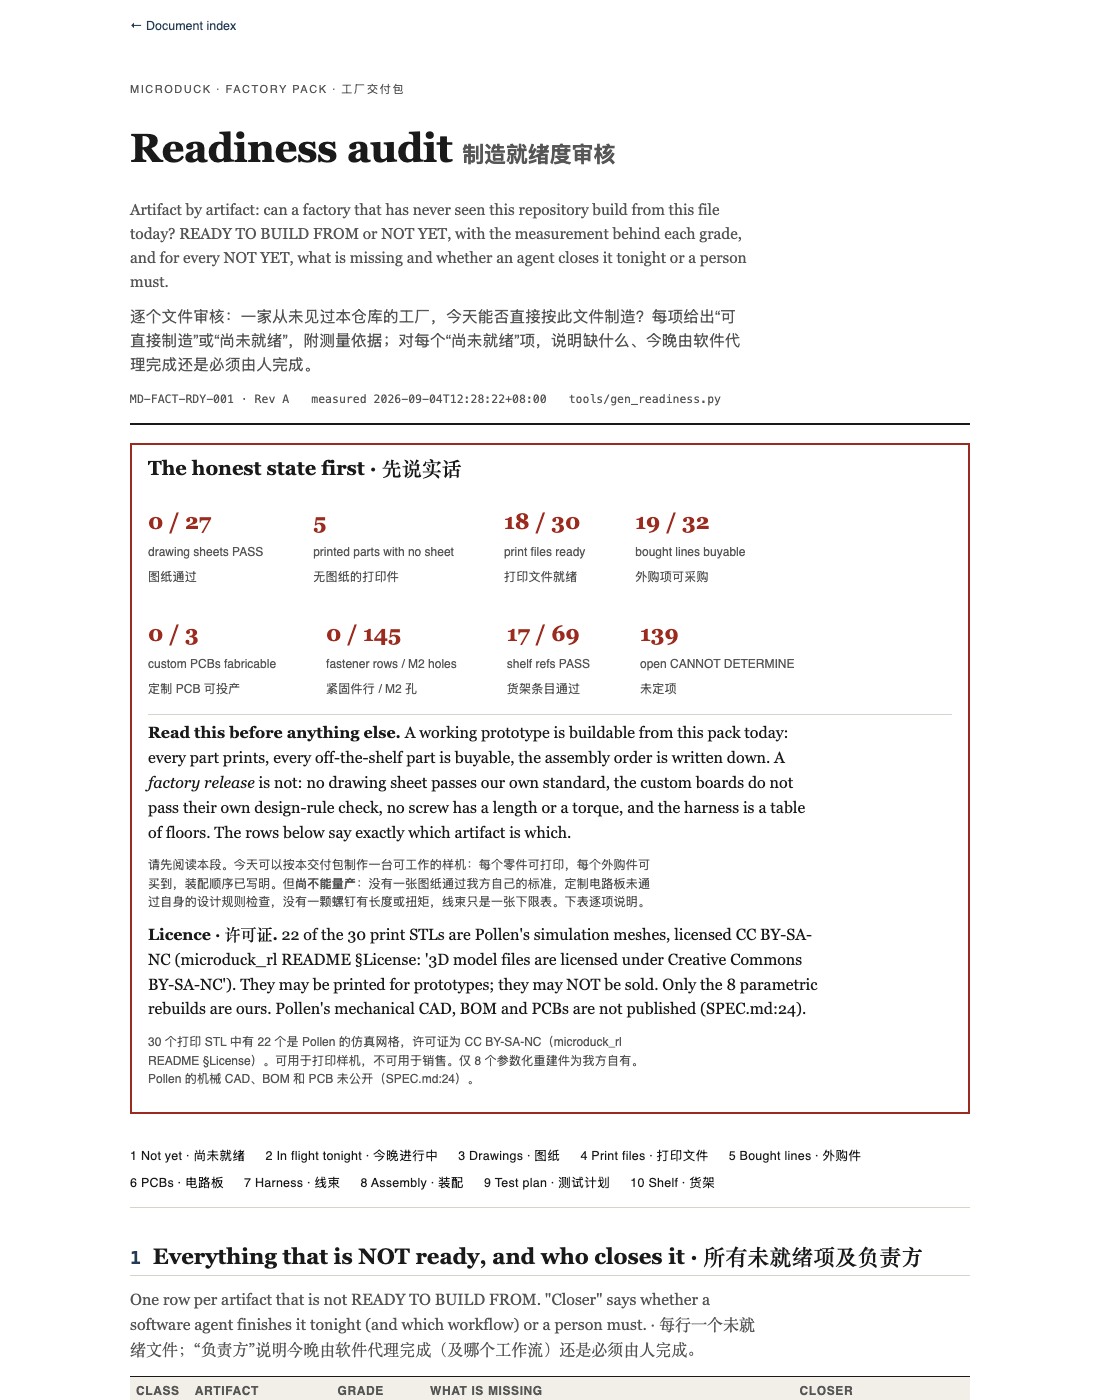
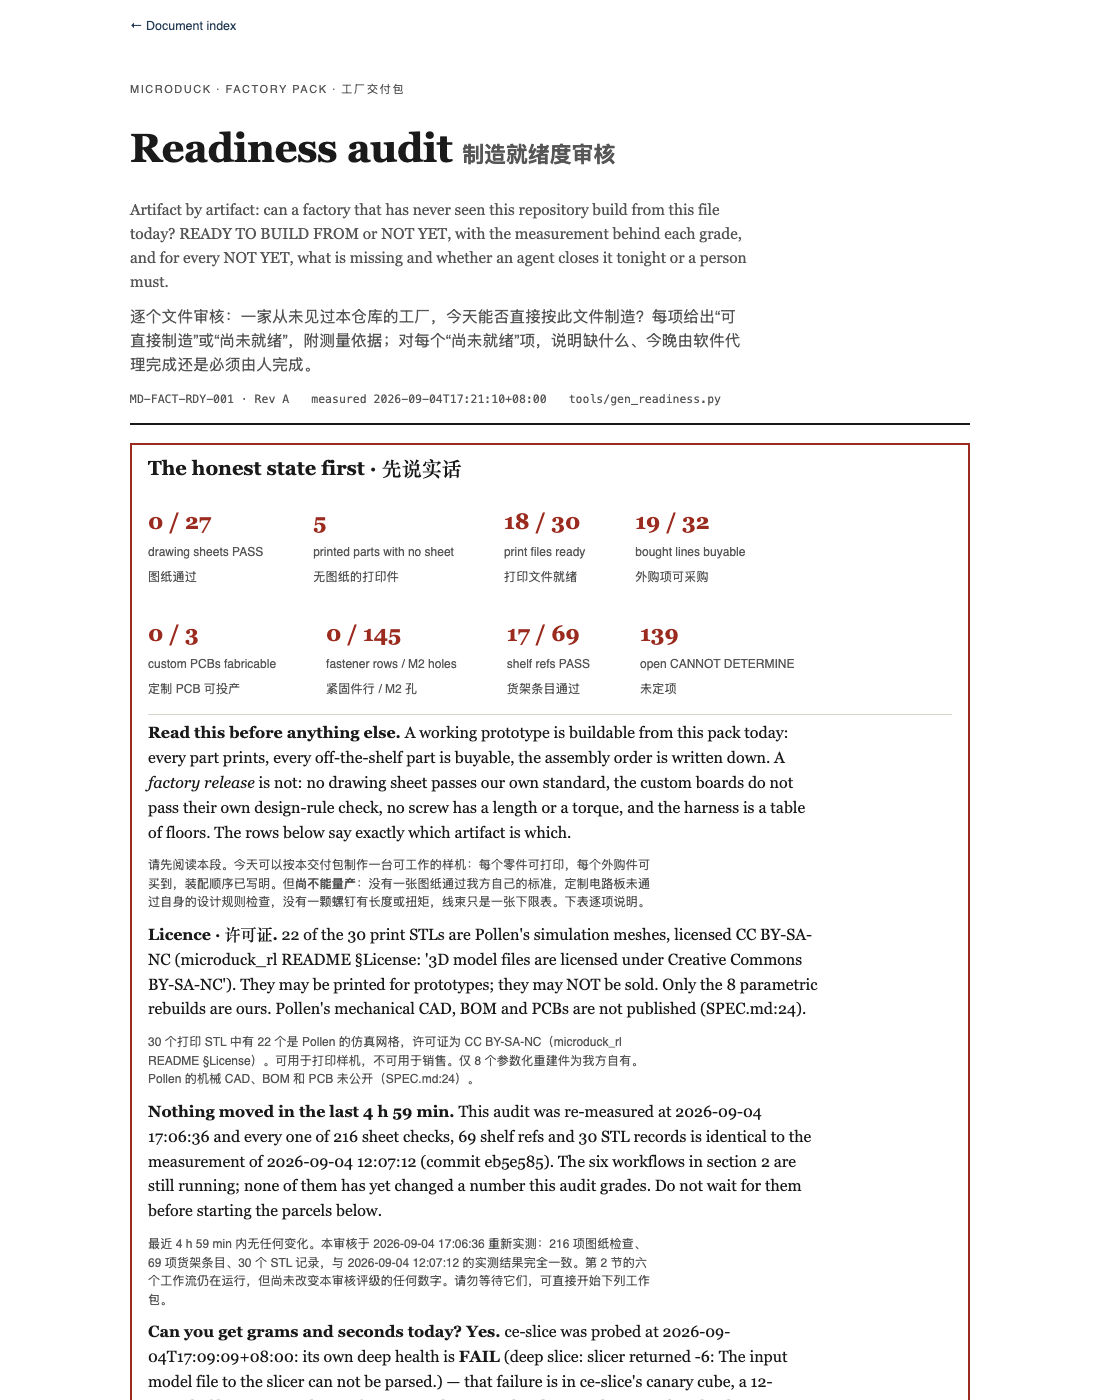
readiness audit: section 4 now says what READY means for a print file, because the grade and the licence are two different questions and the table was answering only one. READY TO BUILD FROM = an STL exists, it is watertight, an orientation is stated and ce-slice returned real grams and seconds. It 

Changed region(s): [[0.1236, 0.7679, 0.8345, 1.0]]

diff --git a/out/factory/readiness.html b/out/factory/readiness.html
@@ -12,7 +12,7 @@
 <header class="hero"><p class="eyebrow">Microduck · factory pack · 工厂交付包</p>
 <h1>Readiness audit <span class="zh" style="font-size:22px;display:inline">制造就绪度审核</span></h1>
 <p class="sub">Artifact by artifact: can a factory that has never seen this repository build from this file today? READY TO BUILD FROM or NOT YET, with the measurement behind each grade, and for every NOT YET, what is missing and whether an agent closes it tonight or a person must.</p><p class="sub zh">逐个文件审核：一家从未见过本仓库的工厂，今天能否直接按此文件制造？每项给出“可直接制造”或“尚未就绪”，附测量依据；对每个“尚未就绪”项，说明缺什么、今晚由软件代理完成还是必须由人完成。</p>
-<div class="rev"><span>MD-FACT-RDY-001 · Rev A</span><span>measured 2026-09-04T17:15:21+08:00</span><span>tools/gen_readiness.py</span></div></header>
+<div class="rev"><span>MD-FACT-RDY-001 · Rev A</span><span>measured 2026-09-04T17:21:10+08:00</span><span>tools/gen_readiness.py</span></div></header>
 <div class="front"><h2>The honest state first · 先说实话</h2>
 <div class="statbar">
 <div class="stat"><b class="no">0 / 27</b><span>drawing sheets PASS<br>图纸通过</span></div>
@@ -155,7 +155,7 @@
 <section id="inflight"><h2><span class="n">2</span>Work an agent is doing tonight — do not hand these to the factory · 今晚代理正在做的工作（勿交给工厂）</h2>
 <p class="lede">The right-hand column is measured, not reported: each owned path is stat-ed at generation time — how many files exist and when the newest one was written. A path that does not exist yet is named as such.</p>
 <table><colgroup><col style="width:11%"><col style="width:36%"><col style="width:27%"><col style="width:26%"></colgroup><tr><th>Workflow<br><span class="zh">工作流</span></th><th>What it closes<br><span class="zh">完成内容</span></th><th>Paths it owns<br><span class="zh">所属路径</span></th><th>Measured state of those paths<br><span class="zh">所属路径的实测状态</span></th></tr>
-<tr><td class="m">WF-SHEETS</td><td>Drawing-sheet rebuild to the A2/A3/A4 standard; every sheet regenerated<span class="zh">按 A2/A3/A4 标准重建全部图纸</span></td><td class="m">ce-cad/cecad/autosheet.py, ce-cad/cecad/sheets.py, out/drawings/</td><td><small>ce-cad/cecad/autosheet.py: 09-03 17:47; ce-cad/cecad/sheets.py: 09-03 17:47; out/drawings: 328 files, newest 09-04 17:14 (edgeclass/microduck-foot-left-top-after.svg)</small></td></tr>
+<tr><td class="m">WF-SHEETS</td><td>Drawing-sheet rebuild to the A2/A3/A4 standard; every sheet regenerated<span class="zh">按 A2/A3/A4 标准重建全部图纸</span></td><td class="m">ce-cad/cecad/autosheet.py, ce-cad/cecad/sheets.py, out/drawings/</td><td><small>ce-cad/cecad/autosheet.py: 09-03 17:47; ce-cad/cecad/sheets.py: 09-03 17:47; out/drawings: 328 files, newest 09-04 17:21 (edgeclass/microduck-foot-left-top-after.svg)</small></td></tr>
 <tr><td class="m">WF-FASTENERS</td><td>Fastener census and assembly (every screw, nut, insert, ball joint into the assembly through a connection)<span class="zh">紧固件普查并装入装配体（每颗螺钉、螺母、热熔嵌件、球头）</span></td><td class="m">out/fasteners/, FASTENERS.html, ce-assemblies/microduck bom</td><td><small>out/fasteners: 35 files, newest 09-04 12:01 (head-neck/raw/speaker.features.json); FASTENERS.html does not exist yet; ce-assemblies/microduck: 11 files, newest 09-03 03:31 (iterations/v0.0.1/manual/MANUAL.html)</small></td></tr>
 <tr><td class="m">WF-UNKNOWNS</td><td>139-unknown resolution, cross-document reconciliation, three adversarial critics<span class="zh">解决 139 项未定项、跨文档核对、三名对抗式审阅</span></td><td class="m">out/open/</td><td><small>out/open: 44 files, newest 09-04 08:15 (geometry/neck-interference.json.log)</small></td></tr>
 <tr><td class="m">WF-POSE</td><td>Photo pose-match and wiring visibility in the renders<span class="zh">照片姿态匹配与渲染中的布线可见性</span></td><td class="m">out/pose/, POSE-MATCH.html, out/wiring/</td><td><small>out/pose: 6 files, newest 09-04 07:05 (poses.json); POSE-MATCH.html does not exist yet; out/wiring: 1 files, newest 09-04 07:00 (cables3d.json)</small></td></tr>
@@ -199,6 +199,7 @@
 <tr><td class="m">microduck-yaw2roll</td><td>DRAW</td><td><span class="g no">NOT YET<br><small>尚未就绪</small></span></td><td class="num">37.0</td><td class="num">28.4</td><td class="num">30.3</td><td class="num">1.7</td><td class="num">2</td><td class="num">1</td><td class="num">3.57</td><td class="num">2.36</td></tr>
 </table></section>
 <section id="print"><h2><span class="n">4</span>Print files — ce-slice numbers, never derived from volume · 打印文件</h2>
+<p class="lede"><b>What READY means in this table, exactly.</b> READY TO BUILD FROM = the file will print: an STL exists, it is watertight, an orientation is stated and ce-slice returned real grams and seconds for it. It does NOT mean you may sell what it prints. 10 of the 18 READY rows are Pollen simulation meshes under CC BY-SA-<b>NC</b> (microduck-bottom-head-shell, microduck-eye-ring, microduck-face-part, microduck-jaw, microduck-jaw-soft, microduck-m12-lens-holder, microduck-soft-mouth-top, microduck-top-head-shell, microduck-trunk-shell-left, microduck-trunk-shell-right) — printable for prototypes, not saleable. Only 8 printed parts are ours outright and free of that condition: microduck-banana-pcb-locker, microduck-bearing-roll, microduck-power-support, microduck-shin, microduck-trunk-base, microduck-upper-leg-left, microduck-upper-leg-right, microduck-yaw2roll. The licence column on every row says which is which. · 本表中“可直接制造”的确切含义：文件可打印（STL 存在、网格封闭、已给出摆放方向、ce-slice 返回真实克数与秒数），但<b>不等于可以销售</b>。10/18 项为 Pollen 仿真网格，许可为 CC BY-SA-NC（非商业），仅可打印样机；仅 8 个打印件完全归我方所有、不受此限。</p>
 <p class="lede">Every gram and second below is what BambuStudio 02.08.02.61 itself reported through ce-slice, at the 0.20 mm Standard @BBL H2S process unless the row says otherwise. Checked against ce-slice's own append-only journal on 2026-09-04T17:09: <b>30 of 30</b> published figures are traceable to a recorded run, and on <b>30</b> of them the STL's sha256 is still the file on disk today. 12 parts were ALSO sliced from our parametric rebuild — where those two disagree the row says by how much. · 下列克数与秒数均为 BambuStudio 经 ce-slice 实测输出，绝非由体积换算。30/30 项可追溯至切片日志记录，其中 30 项 STL 的 sha256 与当前磁盘文件一致。</p>
 <table><colgroup><col style="width:19%"><col style="width:12%"><col style="width:6%"><col style="width:5%"><col style="width:9%"><col style="width:8%"><col style="width:8%"><col style="width:12%"><col style="width:21%"></colgroup><tr><th>Part<br><span class="zh">零件</span></th><th>Grade<br><span class="zh">评级</span></th><th>Mat.<br><span class="zh">材料</span></th><th>Qty<br><span class="zh">数量</span></th><th>Watertight<br><span class="zh">封闭网格</span></th><th>g / piece<br><span class="zh">克/件</span></th><th>s / piece<br><span class="zh">秒/件</span></th><th>Source / licence<br><span class="zh">来源 / 许可</span></th><th>Problem<br><span class="zh">问题</span></th></tr>
 <tr><td class="m">microduck-ankle-left</td><td><span class="g no">NOT YET<br><small>尚未就绪</small></span></td><td>PLA</td><td class="num">1</td><td>yes</td><td class="num">6.1845</td><td class="num">1317</td><td>CC BY-SA-NC (Pollen sim mesh)</td><td>Pollen&#x27;s mesh; our PASSed rebuild exists (bbox delta &lt;= 0.0009 mm) — re-export for provenance/licence; supports needed; sliced numbers are a floor; the rebuild slices to 6.1865 g / 1312 s (+0.03 % filament, -0.37 % time) — quote the file you print; orientation changes the number: same file, 6.3469 g / 1173 s auto-oriented vs 6.1845 g / 1317 s as modelled (+12.29 % time)</td></tr>
@@ -381,5 +382,5 @@
 <tr><td class="m">connection:threaded-m2.5</td><td><span class="g ok">READY TO BUILD FROM<br><small>可直接制造</small></span></td><td></td><td><span class="zh"></span></td></tr>
 <tr><td class="m">assembly:microduck</td><td><span class="g ok">READY TO BUILD FROM<br><small>可直接制造</small></span></td><td></td><td><span class="zh"></span></td></tr>
 </table></section>
-<footer class="foot"><p>Generated 2026-09-04T17:15:21+08:00 by tools/gen_readiness.py from out/factory/measure/*.json · every number traces to a file · 由脚本生成，每个数字均可溯源</p></footer>
+<footer class="foot"><p>Generated 2026-09-04T17:21:10+08:00 by tools/gen_readiness.py from out/factory/measure/*.json · every number traces to a file · 由脚本生成，每个数字均可溯源</p></footer>
 </div></body></html>

diff --git a/tools/gen_readiness.py b/tools/gen_readiness.py
@@ -523,6 +523,12 @@ A.append('</table></section>')
 
 # 4 print
 A.append('<section id="print"><h2><span class="n">4</span>Print files — ce-slice numbers, never derived from volume · 打印文件</h2>')
+_rp = [r for r in rows if r["class"] == "print"]
+_rdy_vendor = [r["id"] for r in _rp if r["grade"] == "READY" and r.get("vendor_mesh")]
+_rdy_ours = [r["id"] for r in _rp if r["grade"] == "READY" and not r.get("vendor_mesh")]
+A.append('<p class="lede"><b>What READY means in this table, exactly.</b> READY TO BUILD FROM = the file will print: an STL exists, it is watertight, an orientation is stated and ce-slice returned real grams and seconds for it. It does NOT mean you may sell what it prints. %d of the %d READY rows are Pollen simulation meshes under CC BY-SA-<b>NC</b> (%s) — printable for prototypes, not saleable. Only %d printed parts are ours outright and free of that condition: %s. The licence column on every row says which is which. · 本表中“可直接制造”的确切含义：文件可打印（STL 存在、网格封闭、已给出摆放方向、ce-slice 返回真实克数与秒数），但<b>不等于可以销售</b>。%d/%d 项为 Pollen 仿真网格，许可为 CC BY-SA-NC（非商业），仅可打印样机；仅 %d 个打印件完全归我方所有、不受此限。</p>'
+         % (len(_rdy_vendor), len(_rdy_vendor) + len(_rdy_ours), E(", ".join(_rdy_vendor)), len(_rdy_ours), E(", ".join(_rdy_ours)),
+            len(_rdy_vendor), len(_rdy_vendor) + len(_rdy_ours), len(_rdy_ours)))
 A.append('<p class="lede">Every gram and second below is what BambuStudio %s itself reported through ce-slice, at the 0.20 mm Standard @BBL H2S process unless the row says otherwise. Checked against ce-slice\'s own append-only journal on %s: <b>%d of %d</b> published figures are traceable to a recorded run, and on <b>%d</b> of them the STL\'s sha256 is still the file on disk today. %d parts were ALSO sliced from our parametric rebuild — where those two disagree the row says by how much. · 下列克数与秒数均为 BambuStudio 经 ce-slice 实测输出，绝非由体积换算。%d/%d 项可追溯至切片日志记录，其中 %d 项 STL 的 sha256 与当前磁盘文件一致。</p>' % (
     "02.08.02.61", E(SJ["read_at"][:16]), SJ["summary"]["published_number_traced_to_a_journal_run"], len(slice_["parts"]),
     SJ["summary"]["stl_unchanged_since_that_run"], SJ["summary"]["with_a_rebuilt_alternative"],
